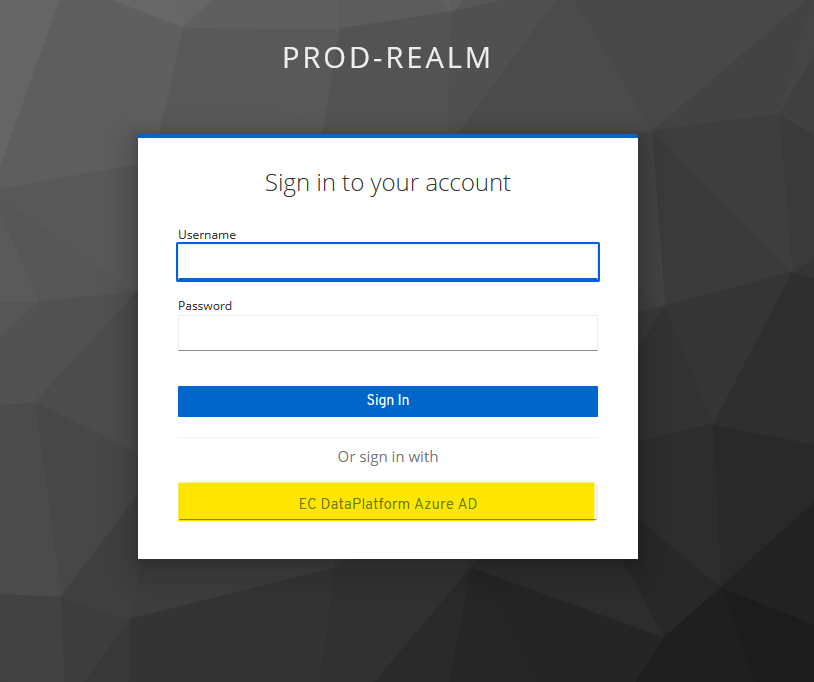
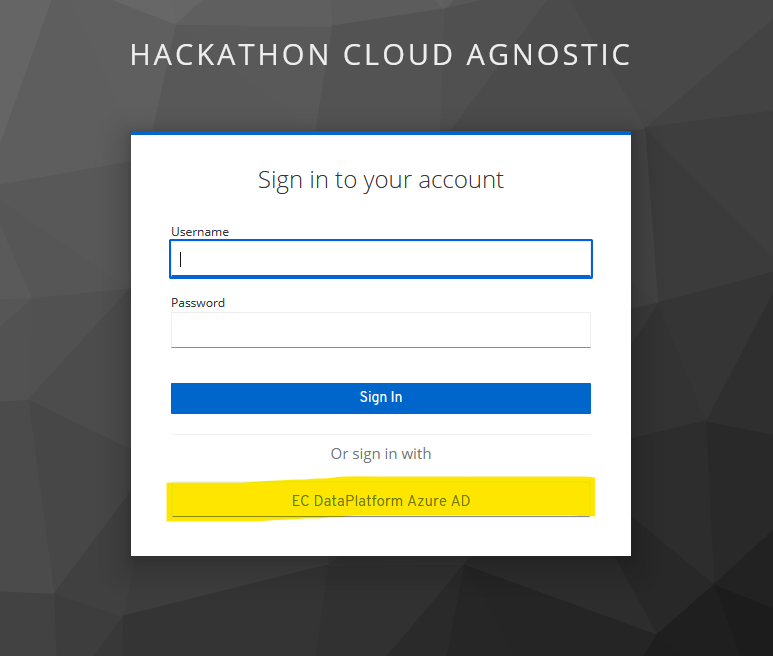
update with first login

Changed region(s): [[0.1552, 0.1829, 0.8383, 0.8537], [0.1552, 0.061, 0.8072, 0.122], [0.3105, 0.2439, 0.652, 0.3049]]

diff --git a/cloud-accelerated.md b/cloud-accelerated.md
@@ -25,6 +25,10 @@ There you have to use the provided Azure AD login credentials which you received
 
 ![Azure AD login](img/azure_ad.png)
 
+For the first time login you have to enter your private email address that is used in MS Teams. 
+
+![Azure AD login update](img/cac_login_update.png)
+
 ## Home
 
 After successful login you arrive at the home screen of the Cloud Accelerated Datalab.

diff --git a/cloud-agnostic.md b/cloud-agnostic.md
@@ -20,6 +20,9 @@ There you have to use the provided Azure AD login credentials which you received
 
 ![Azure AD login](img/azure_ad.png)
 
+For the first time login you have to enter your private email address that is used in MS Teams. 
+
+![Azure AD login update](img/cag_login_update.png)
 
 ## Home
 
